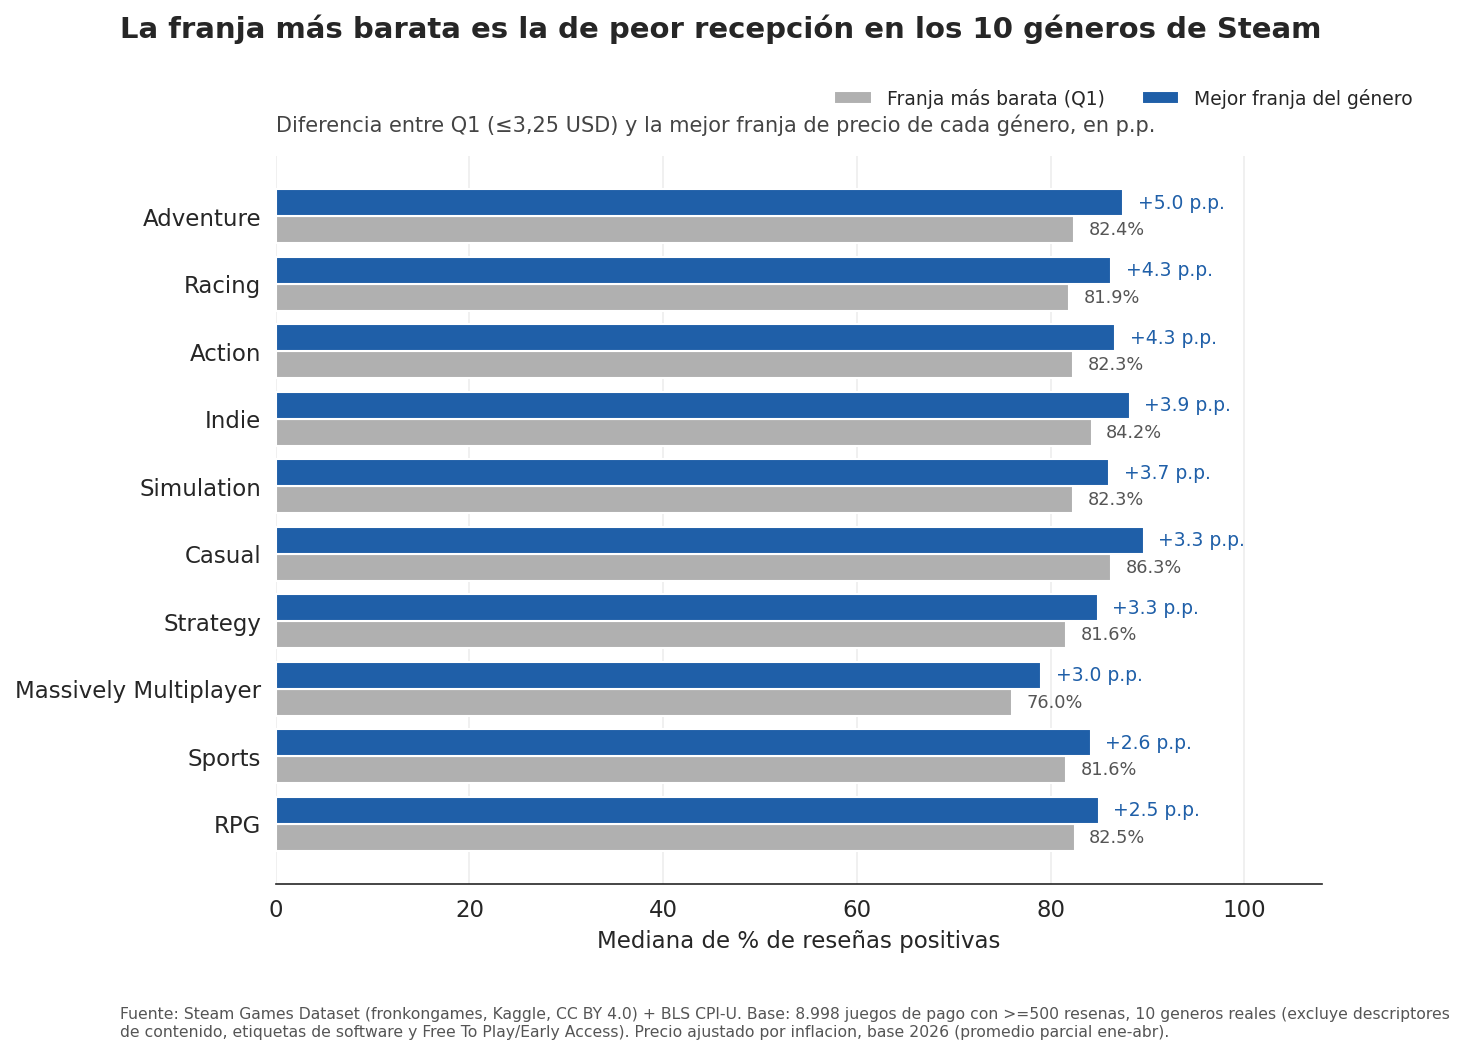
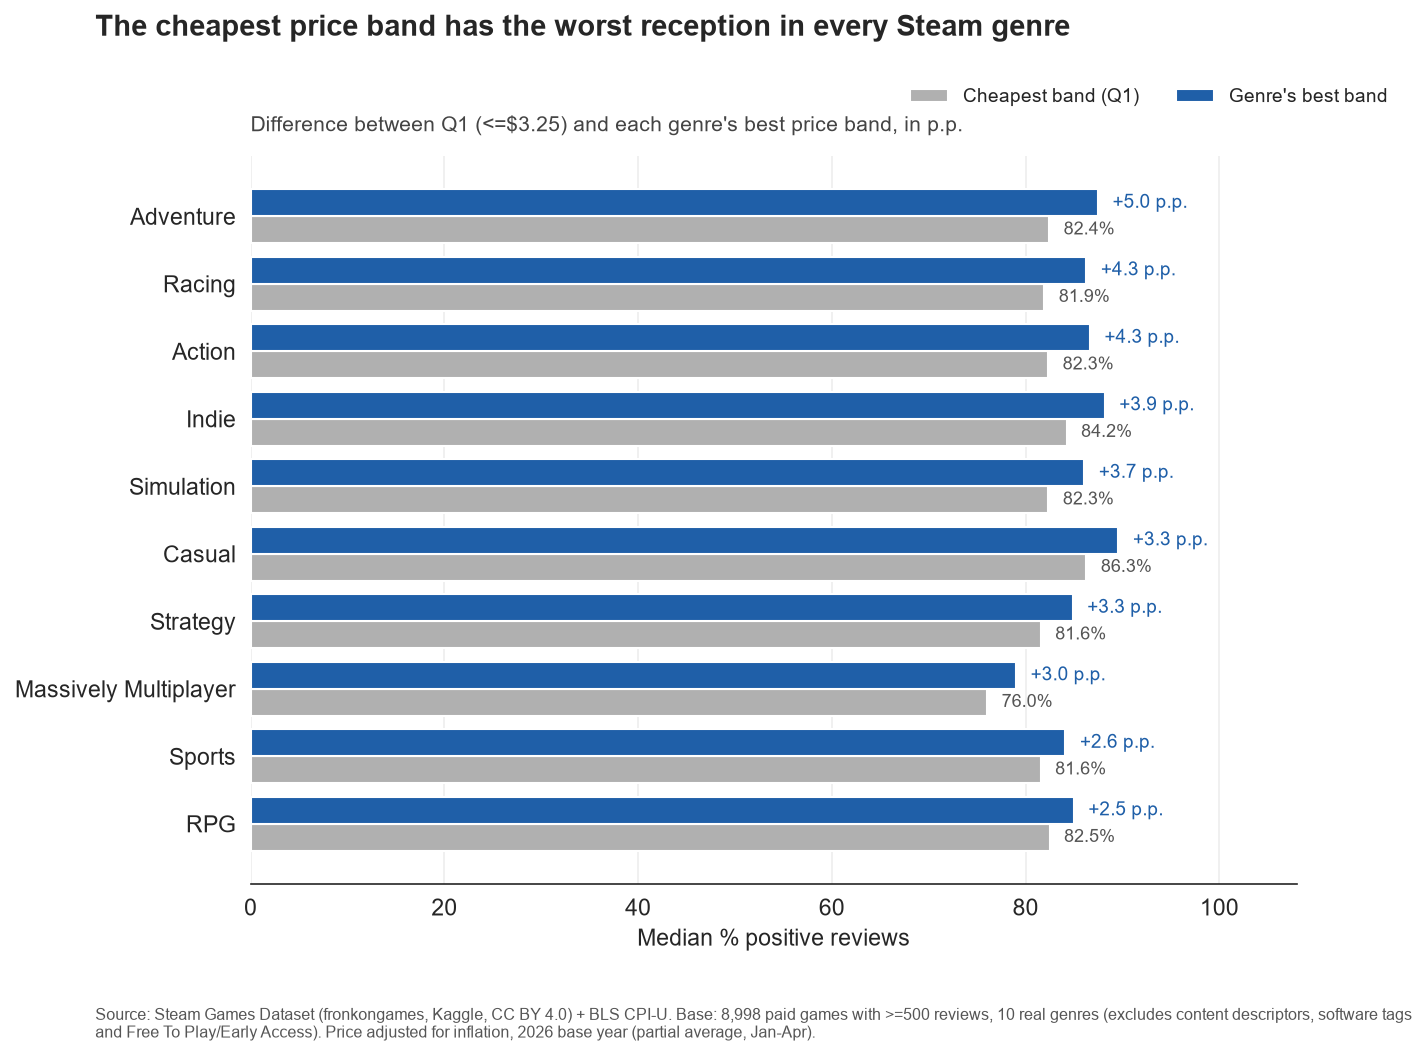
Regenerate the four figures with English text
The site publishes this case in English, but the charts were still
Spanish-labelled (titles, axes, legends) because graficos.py produced
them that way. A Spanish chart on an English page reads as a mistake in
exactly the artifact recruiters look at most.

Translated only the plotted string literals - titles, axis labels,
legend entries, annotations, the source note. Left variable names and
comments as-is: renaming identifiers is a larger, separate change that
belongs with the full L3 translation, not this one.

Verified the regenerated numbers against the published README: Adventure
+5.0 p.p., RPG +2.5 p.p., Casual 86.3/88.8/89.6/89.3 by band - all
unchanged. Only the on-chart text differs.

diff --git a/notebooks/graficos.py b/notebooks/graficos.py
@@ -28,7 +28,7 @@ df_gen_real['total_resenas'] = df_gen_real['Positive'] + df_gen_real['Negative']
 base = df_gen_real[(df_gen_real['Price'] > 0) & (df_gen_real['total_resenas'] >= 500)].copy()
 q1, q2, q3 = 3.25, 6.46, 12.36
 bordes = [-np.inf, q1, q2, q3, np.inf]
-etiquetas = ['Q1 (<=3,25)', 'Q2 (3,25-6,46)', 'Q3 (6,46-12,36)', 'Q4 (>12,36)']
+etiquetas = ['Q1 (<=3.25)', 'Q2 (3.25-6.46)', 'Q3 (6.46-12.36)', 'Q4 (>12.36)']
 base['franja_precio'] = pd.cut(base['precio_ajustado_usd'], bins=bordes, labels=etiquetas)
 
 tabla = (base.groupby(['Genres', 'franja_precio'], observed=True)
@@ -36,10 +36,10 @@ tabla = (base.groupby(['Genres', 'franja_precio'], observed=True)
          .reset_index())
 tabla_robusta = tabla[tabla['n'] >= 20].copy()
 
-FUENTE = ('Fuente: Steam Games Dataset (fronkongames, Kaggle, CC BY 4.0) + BLS CPI-U. '
-          'Base: 8.998 juegos de pago con >=500 resenas, 10 generos reales (excluye descriptores '
-          'de contenido, etiquetas de software y Free To Play/Early Access). Precio ajustado por '
-          'inflacion, base 2026 (promedio parcial ene-abr).')
+FUENTE = ('Source: Steam Games Dataset (fronkongames, Kaggle, CC BY 4.0) + BLS CPI-U. '
+          'Base: 8,998 paid games with >=500 reviews, 10 real genres (excludes content '
+          'descriptors, software tags and Free To Play/Early Access). Price adjusted for '
+          'inflation, 2026 base year (partial average, Jan-Apr).')
 
 def nota_fuente(fig, texto=FUENTE):
     fig.text(0.01, -0.02, texto, ha='left', va='top', fontsize=7.5, color='#555555', wrap=True)
@@ -60,15 +60,15 @@ f1 = pd.DataFrame(filas).sort_values('dif', ascending=True)
 
 fig, ax = plt.subplots(figsize=(9, 6.3))
 y = np.arange(len(f1))
-ax.barh(y - 0.2, f1['Q1'], height=0.4, color=GRIS, label='Franja más barata (Q1)')
-ax.barh(y + 0.2, f1['mejor'], height=0.4, color=AZUL, label='Mejor franja del género')
+ax.barh(y - 0.2, f1['Q1'], height=0.4, color=GRIS, label='Cheapest band (Q1)')
+ax.barh(y + 0.2, f1['mejor'], height=0.4, color=AZUL, label="Genre's best band")
 ax.set_yticks(y)
 ax.set_yticklabels(f1['Genres'])
 ax.set_xlim(0, 108)
-ax.set_xlabel('Mediana de % de reseñas positivas')
-fig.suptitle('La franja más barata es la de peor recepción en los 10 géneros de Steam',
+ax.set_xlabel('Median % positive reviews')
+fig.suptitle('The cheapest price band has the worst reception in every Steam genre',
              fontsize=14, weight='bold', x=0.01, ha='left', y=1.03)
-ax.set_title('Diferencia entre Q1 (≤3,25 USD) y la mejor franja de precio de cada género, en p.p.',
+ax.set_title('Difference between Q1 (<=$3.25) and each genre\'s best price band, in p.p.',
              fontsize=10, color='#444444', loc='left', pad=12)
 for i, row in enumerate(f1.itertuples()):
     ax.text(row.mejor + 1.5, i + 0.2, f'+{row.dif:.1f} p.p.', va='center', fontsize=9, color=AZUL)
@@ -88,11 +88,11 @@ orden_genero = pivot.mean(axis=1).sort_values(ascending=False).index
 pivot = pivot.loc[orden_genero]
 
 fig, ax = plt.subplots(figsize=(8, 6))
-sns.heatmap(pivot, annot=True, fmt='.1f', cmap='Blues', cbar_kws={'label': '% mediana de reseñas positivas'},
+sns.heatmap(pivot, annot=True, fmt='.1f', cmap='Blues', cbar_kws={'label': 'Median % positive reviews'},
             linewidths=0.5, linecolor='white', ax=ax, vmin=70, vmax=92)
-fig.suptitle('La mejor recepción se concentra en precios medios-altos (Q3/Q4), nunca en el más barato',
+fig.suptitle('The best reception clusters at mid-to-high prices (Q3/Q4), never the cheapest',
              fontsize=13, weight='bold', x=0.01, ha='left', y=1.04)
-ax.set_title('Mediana de % de reseñas positivas por género y franja de precio ajustado',
+ax.set_title('Median % positive reviews by genre and adjusted price band',
              fontsize=10, color='#444444', loc='left', pad=10)
 ax.set_xlabel('')
 ax.set_ylabel('')
@@ -112,10 +112,10 @@ y = np.arange(len(f3))
 ax.barh(y, f3['dif'], color=colores)
 ax.set_yticks(y)
 ax.set_yticklabels(f3['Genres'])
-ax.set_xlabel('Diferencia en puntos porcentuales (mejor franja − Q1)')
-fig.suptitle('Adventure, Indie y Casual combinan mejor efecto, volumen y recepción absoluta',
+ax.set_xlabel('Difference in percentage points (best band - Q1)')
+fig.suptitle('Adventure, Indie and Casual combine the best effect, volume and reception',
              fontsize=13, weight='bold', x=0.01, ha='left', y=1.03)
-ax.set_title('Efecto de precio sobre recepción por género (p.p.); azul = candidatos con mejor evidencia combinada',
+ax.set_title('Price effect on reception by genre (p.p.); blue = candidates with the strongest combined evidence',
              fontsize=9.5, color='#444444', loc='left', pad=12)
 for i, row in enumerate(f3.itertuples()):
     ax.text(row.dif + 0.05, i, f'{row.dif:.2f}', va='center', fontsize=9,
@@ -131,7 +131,7 @@ plt.close(fig)
 # FIGURA 4 - Control por antiguedad (recientes vs viejos) para los 3 candidatos + Action de referencia
 # =================================================================
 mediana_antig = base['antiguedad_anios'].median()
-base['banda'] = np.where(base['antiguedad_anios'] <= mediana_antig, 'Recientes', 'Viejos')
+base['banda'] = np.where(base['antiguedad_anios'] <= mediana_antig, 'Recent', 'Older')
 generos_fig4 = ['Adventure', 'Indie', 'Casual', 'Action']
 sub4 = base[base['Genres'].isin(generos_fig4)]
 tabla4 = (sub4.groupby(['Genres', 'banda', 'franja_precio'], observed=True)
@@ -143,7 +143,7 @@ fig, axes = plt.subplots(1, 4, figsize=(15, 5.3), sharey=True)
 fig.subplots_adjust(top=0.72, bottom=0.12)
 for ax, genero in zip(axes, generos_fig4):
     d = tabla4[tabla4['Genres'] == genero]
-    for banda, color, offset in [('Recientes', AZUL, -0.18), ('Viejos', GRIS, 0.18)]:
+    for banda, color, offset in [('Recent', AZUL, -0.18), ('Older', GRIS, 0.18)]:
         dd = d[d['banda'] == banda].set_index('franja_precio').reindex(etiquetas)
         x = np.arange(len(etiquetas)) + offset
         ax.bar(x, dd['mediana_pct'], width=0.36, color=color, label=banda)
@@ -153,11 +153,11 @@ for ax, genero in zip(axes, generos_fig4):
     ax.set_ylim(0, 100)
     sns.despine(ax=ax, left=True)
     ax.grid(axis='y', color='#eeeeee')
-axes[0].set_ylabel('Mediana % reseñas positivas')
+axes[0].set_ylabel('Median % positive reviews')
 axes[0].legend(loc='lower right', frameon=False, fontsize=8)
-fig.suptitle('El patrón se sostiene en juegos recientes y viejos: no es un efecto de antigüedad',
+fig.suptitle('The pattern holds for both recent and older games: it is not an age effect',
              fontsize=14, weight='bold', x=0.01, ha='left', y=0.99)
-fig.text(0.01, 0.885, 'Mediana de % reseñas positivas por franja de precio, separando juegos recientes (≤ mediana de antigüedad) de viejos',
+fig.text(0.01, 0.885, 'Median % positive reviews by price band, splitting recent games (<= median age) from older ones',
          fontsize=10, color='#444444')
 nota_fuente(fig)
 fig.savefig(f'{RUTA_BASE}/salidas/graficos/04_control_antiguedad.png', dpi=150, bbox_inches='tight')
